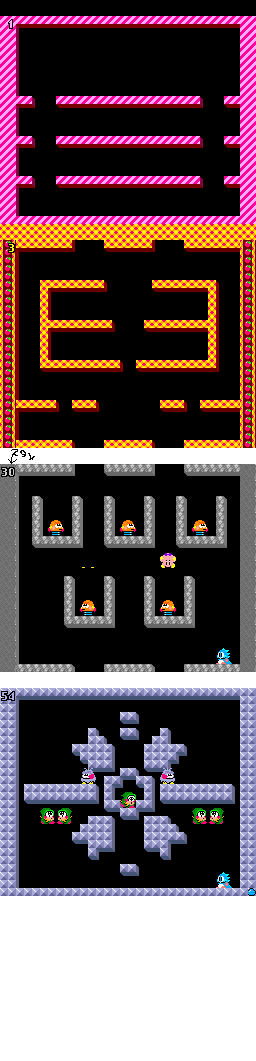
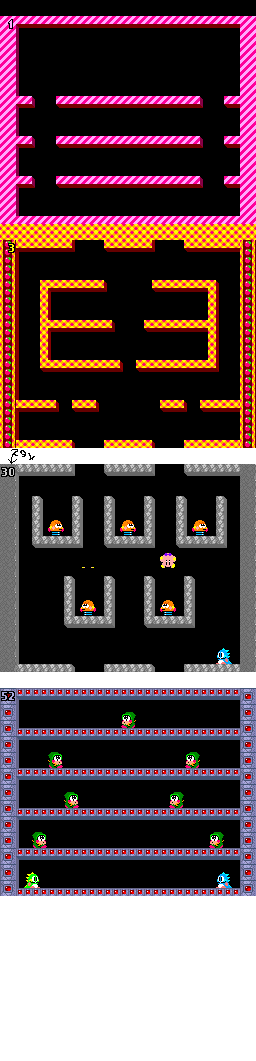
Maps done

Changed region(s): [[0.0, 0.6221, 1.0, 0.8709]]

diff --git a/Code/BubbleBobble/src/Scene.cpp b/Code/BubbleBobble/src/Scene.cpp
@@ -182,19 +182,19 @@ AppStatus Scene::LoadLevel(int stage)
 	if (stage == 1)
 	{
 		map = new int[size] {
-			1, 3,173,173,173,173,173,173,173,173,173,173,173,173,173, 2,
-				2, 5, 0, 0, 0, 0, 0, 0, 0, 0, 0, 0, 0, 0, 0, 2,
-				2, 5, 0, 0, 0, 0, 0, 0, 0, 0, 0, 0, 0, 0, 0, 2,
-				2, 5, 0, 0, 0, 0, 0, 0, 0, 0, 0, 0, 0, 0, 0, 2,
-				2, 5, 0, 0, 0, 0, 0, 0, 103, 0, 0, 0, 0, 0, 0, 2,
-				2, 3, 4, 12, 11, 11, 11, 11, 11, 11, 11, 11, 13, 0, 16, 2,
-				2, 5, 0, 0, 59, 0, 0, 104, 0, 0, 0, 59, 0, 0, 0, 2,
-				2, 43, 21, 17, 42, 42, 42, 42, 42, 42, 42, 42, 18, 0, 42, 2,
-				2, 9, 6, 10, 19, 19, 19, 19, 19, 19, 19, 19, 20, 0, 7, 2,
-				2, 5, 0, 0, 59, 0, 103, 0,  0, 0, 0, 59, 0, 0, 0, 2,
-				2, 3, 4, 12, 11, 11, 11, 11, 11, 11, 11, 11, 13, 0, 16, 2,
-				2, 5, 100, 0, 0, 0, 0, 0, 0, 0, 0, 0, 0, 0, 0, 2,
-				2, 43, 42, 42, 42, 42, 42, 42, 42, 42, 42, 42, 42, 42, 42, 2
+			    1,   3, 173, 173, 173, 173, 173, 173, 173, 173, 173, 173, 173, 173, 173,  2,
+				2,   5,   0,   0,   0,   0,   0,   0,   0,   0,   0,   0,   0,   0,   0,  2,
+				2,   5,   0,   0,   0,   0,   0,   0,   0,   0,   0,   0,   0,   0,   0,  2,
+				2,   5,   0,   0,   0,   0,   0,   0,   0,   0,   0,   0,   0,   0,   0,  2,
+				2,   5,   0,   0,   0,   0,   0,   0, 103,   0,   0,   0,   0,   0,   0,  2,
+				2,   3,   4,  12,  11,  11,  11,  11,  11,  11,  11,  11,  13,   0,  16,  2,
+				2,   5,   0,   0,  59,   0,   0, 104,   0,   0,   0,  59,   0,   0,   0,  2,
+				2,  43,  21,  17,  42,  42,  42,  42,  42,  42,  42,  42,  18,   0,  42,  2,
+				2,   9,   6,  10,  19,  19,  19,  19,  19,  19,  19,  19,  20,   0,   7,  2,
+				2,   5,   0,   0,  59,  0 , 103,   0,   0,   0,   0,  59,   0,   0,   0,  2,
+				2,   3,   4,  12,  11,  11,  11,  11,  11,  11,  11,  11,  13,   0,  16,  2,
+				2,   5, 100,   0,   0,   0,   0,   0,   0,   0,   0,   0,   0,   0,   0,  2,
+				2,  43,  42,  42,  42,  42,  42,  42,  42,  42,  42,  42,  42,  42,  42,  2
 			};
 		player->InitScore();
 
@@ -203,19 +203,19 @@ AppStatus Scene::LoadLevel(int stage)
 	else if (stage == 2)
 	{
 		map = new int[size] {
-			150, 158, 171, 171, 153, 0, 172, 171, 171, 153, 0, 172, 171, 171, 171, 151,
-				151, 162, 0, 0, 0, 0, 0, 0, 0, 0, 0, 0, 0, 0, 0, 151,
-				151, 162, 156, 155, 155, 155, 157, 0, 0, 156, 155, 155, 155, 157, 0, 151,
-				151, 162, 160, 164, 166, 166, 163, 0, 0, 165, 166, 166, 166, 161, 0, 151,
-				151, 162, 160, 162, 0, 0, 0, 0, 0, 0, 0, 0, 0, 161, 0, 151,
-				151, 162, 160, 158, 152, 152, 152, 167, 0, 168, 152, 152, 152, 161, 0, 151,
-				151, 162, 160, 162, 0, 0,102, 0, 0, 59, 59, 0, 0, 161, 0, 151,
-				151, 162, 160, 159, 155, 155, 155, 157, 156, 155, 155, 155, 155, 161, 0, 151,
-				151, 162, 165, 166, 166, 166, 166, 163, 165, 166, 166, 166, 166, 163, 0, 151,
-				151, 162, 0, 59, 0, 0, 0, 0, 0, 0, 0, 0, 0, 59, 0, 151,
-				151, 158, 152, 170, 154, 152, 169, 0, 0, 0, 168, 170, 154, 152, 152, 151,
-				151, 162, 100, 0, 0, 0, 0, 0, 0, 0, 0, 0,103, 0, 0, 151,
-				151, 159, 155, 155, 157,  0, 156, 155, 155, 157, 0, 156, 155, 155, 155, 151
+			    150, 158, 171, 171, 153,   0, 172, 171, 171, 153,   0, 172, 171, 171, 171, 151,
+				151, 162,   0,   0,   0,   0,   0,   0,   0,   0,   0,   0,   0,   0,   0, 151,
+				151, 162, 156, 155, 155, 155, 157,   0,   0, 156, 155, 155, 155, 157,   0, 151,
+				151, 162, 160, 164, 166, 166, 163,   0,   0, 165, 166, 166, 166, 161,   0, 151,
+				151, 162, 160, 162,   0,   0,   0,   0,   0,   0,   0,   0,   0, 161,   0, 151,
+				151, 162, 160, 158, 152, 152, 152, 167,   0, 168, 152, 152, 152, 161,   0, 151,
+				151, 162, 160, 162,   0,   0, 102,   0,   0,  59,  59,   0,   0, 161,   0, 151,
+				151, 162, 160, 159, 155, 155, 155, 157, 156, 155, 155, 155, 155, 161,   0, 151,
+				151, 162, 165, 166, 166, 166, 166, 163, 165, 166, 166, 166, 166, 163,   0, 151,
+				151, 162,   0,  59,   0,   0,   0,   0,   0,   0,   0,   0,   0,  59,   0, 151,
+				151, 158, 152, 170, 154, 152, 169,   0,   0,   0, 168, 170, 154, 152, 152, 151,
+				151, 162, 100,   0,   0,   0,   0,   0,   0,   0,   0,   0, 103,   0,   0, 151,
+				151, 159, 155, 155, 157,   0, 156, 155, 155, 157,   0, 156, 155, 155, 155, 151
 			};
 	}
 	else if (stage == 3)
@@ -235,6 +235,24 @@ AppStatus Scene::LoadLevel(int stage)
 			175, 185,   0,   0,   0,   0,   0,   0,   0,   0,   0,   0,   0,   0,   0, 175,
 			175, 176, 177, 177, 178,   0, 179, 177, 177, 178,   0, 179, 177, 177, 177, 175
 		};
+	}
+	else if (stage == 4)
+	{
+		map = new int[size] {
+				197, 199, 200, 200, 200, 200, 200, 200, 200, 200, 200, 200, 200, 200, 200, 196,
+				196, 201,   0,   0,   0,   0,   0,   0,   0,   0,   0,   0,   0,   0,   0, 196,
+				196, 202, 203, 203, 203, 203, 203, 203, 203, 203, 203, 203, 203, 203, 203, 196,
+				196, 204, 205, 205, 205, 205, 205, 205, 205, 205, 205, 205, 205, 205, 205, 196,
+				196, 201,	0,	 0,   0,   0,   0,   0,   0,   0,   0,   0,   0,   0,   0, 196,
+				197, 199, 200, 200, 200, 200, 200, 200, 200, 200, 200, 200, 200, 200, 200, 196,
+				196, 201,   0,   0,   0,   0,   0,   0,   0,   0,   0,   0,   0,   0,   0, 196,
+				196, 202, 203, 203, 203, 203, 203, 203, 203, 203, 203, 203, 203, 203, 203, 196,
+				196, 204, 205, 205, 205, 205, 205, 205, 205, 205, 205, 205, 205, 205, 205, 196,
+				196, 201,   0,   0,   0,   0,   0,   0,   0,   0,   0,   0,   0,   0,   0, 196,
+				197, 199, 200, 200, 200, 200, 200, 200, 200, 200, 200, 200, 200, 200, 200, 196,
+				196, 201,   0,   0,   0,   0,   0,   0,   0,   0,   0,   0,   0,   0,   0, 196,
+				196, 202, 203, 203, 203, 203, 203, 203, 203, 203, 203, 203, 203, 203, 203, 196
+			};
 	}
 	else
 	{

diff --git a/Code/BubbleBobble/src/TileMap.cpp b/Code/BubbleBobble/src/TileMap.cpp
@@ -127,6 +127,19 @@ void TileMap::InitTileDictionary()
 	dict_rect[(int)Tile::DEBUG30L] = { 4 * n, 29 * n, n, n };
 	dict_rect[(int)Tile::DEBUG30R] = { 6 * n, 29 * n, n, n };
 
+	//l4 Tiles
+
+	dict_rect[(int)Tile::BLOCKWALL4] = { 0, 44 * n, n, n };
+	dict_rect[(int)Tile::BLOCKWALL4NUMBER] = { 0, 43 * n, n, n };
+	dict_rect[(int)Tile::CORNER_PLATAFORM4] = { n, 43 * n, n, n };
+	dict_rect[(int)Tile::PLATAFORM_SHADOW4] = { n * 2, 43 * n, n, n };
+	dict_rect[(int)Tile::WALL_SHADOW4] = { n, 44 * n, n, n };
+	dict_rect[(int)Tile::WALL_PLATAFORM4] = { n, 45 * n, n, n };
+	dict_rect[(int)Tile::PLATAFORM4] = { n * 2, 45 * n, n, n };
+	dict_rect[(int)Tile::CORNER_SHADOW4] = { n , 46 * n, n, n };
+	dict_rect[(int)Tile::BOTTOM_SHADW4] = { n * 2 , 46 * n, n, n };
+
+
 }
 AppStatus TileMap::Initialise()
 {

diff --git a/Code/BubbleBobble/src/TileMap.h b/Code/BubbleBobble/src/TileMap.h
@@ -49,6 +49,10 @@ enum class Tile {
 
 	DEBUG_WARP_30, DEBUG_CEILINGLVL30, DEBUG30L, DEBUG30R, 
 
+	//forth level tiles
+	BLOCKWALL4, BLOCKWALL4NUMBER, CORNER_PLATAFORM4, PLATAFORM_SHADOW4,
+	WALL_SHADOW4, WALL_PLATAFORM4, PLATAFORM4, CORNER_SHADOW4, BOTTOM_SHADW4,
+
 	//Intervals
 	STATIC_FIRST = BLOCKWITH1,
 	STATIC_LAST = BLOCKWITHOUT1,
